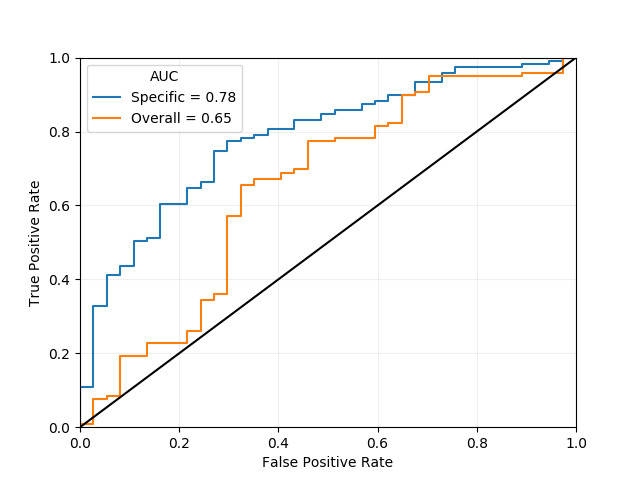
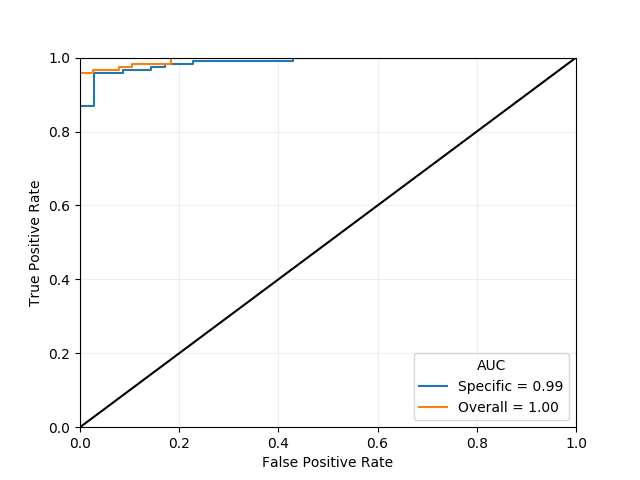
Fixed ROC/AUC

diff --git a/model.py b/model.py
@@ -7,7 +7,7 @@ def SoftClamp(x, n):
     return (torch.min(F.leaky_relu(x, 2/(n/slow+1)), torch.ones_like(x)) - torch.min(F.leaky_relu(1-x, 2/(n/slow+1)), torch.ones_like(x))+1)/2.0
 
 def SoftLeaky(x, n):
-	slow = 1000
+	slow = 10
 	return F.leaky_relu(x, 1/(n/slow+1))
 
 class Model(nn.Module):
@@ -22,7 +22,7 @@ class Model(nn.Module):
 
 		self.trunk = nn.Sequential(
 			nn.Linear(self.features, self.width), nn.ReLU(inplace=True), nn.BatchNorm1d(self.width), nn.Dropout(self.DO),
-			#nn.Linear(self.width, self.width), nn.ReLU(inplace=True), nn.BatchNorm1d(self.width), nn.Dropout(self.DO),
+			nn.Linear(self.width, self.width), nn.ReLU(inplace=True), nn.BatchNorm1d(self.width), nn.Dropout(self.DO),
 			nn.Linear(self.width, self.width), nn.ReLU(inplace=True), nn.BatchNorm1d(self.width), nn.Dropout(self.DO),
 			nn.Linear(self.width, self.width), nn.ReLU(inplace=True), nn.BatchNorm1d(self.width), nn.Dropout(self.DO))
 
@@ -30,13 +30,13 @@ class Model(nn.Module):
 
 		self.pred = nn.Sequential(
 			nn.Linear(2*self.width, self.width), nn.ReLU(inplace=True), nn.BatchNorm1d(self.width), nn.Dropout(self.DO),
-			#nn.Linear(self.width, self.width), nn.ReLU(inplace=True), nn.BatchNorm1d(self.width), nn.Dropout(self.DO),
+			nn.Linear(self.width, self.width), nn.ReLU(inplace=True), nn.BatchNorm1d(self.width), nn.Dropout(self.DO),
 			nn.Linear(self.width, self.width), nn.ReLU(inplace=True), nn.BatchNorm1d(self.width), nn.Dropout(self.DO),
 			nn.Linear(self.width, 1))
 
 		self.prob = nn.Sequential(
 			nn.Linear(2*self.width, self.width), nn.ReLU(inplace=True), nn.BatchNorm1d(self.width), nn.Dropout(self.DO),
-			#nn.Linear(self.width, self.width), nn.ReLU(inplace=True), nn.BatchNorm1d(self.width), nn.Dropout(self.DO),
+			nn.Linear(self.width, self.width), nn.ReLU(inplace=True), nn.BatchNorm1d(self.width), nn.Dropout(self.DO),
 			nn.Linear(self.width, self.width), nn.ReLU(inplace=True), nn.BatchNorm1d(self.width), nn.Dropout(self.DO),
 			nn.Linear(self.width, 1))
 

diff --git a/utils.py b/utils.py
@@ -25,7 +25,9 @@ def train_and_test_set(data, labels, groups, i, k):
 
 def Loss(pred, strain, prob, ptrain, stest, ptest, model, xtest, epoch):
 
-	mse  = F.mse_loss(pred, strain)/1000
+	mse_scale = 1e5
+
+	mse  = F.mse_loss(pred, strain)/mse_scale
 	bce  = F.binary_cross_entropy(prob, ptrain)
 
 	loss  = mse + bce
@@ -37,7 +39,7 @@ def Loss(pred, strain, prob, ptrain, stest, ptest, model, xtest, epoch):
 		tprob, tpred = model(xtest)
 		model.train() #This turns BatchNorm and Dropout back on
 
-		tmse = F.mse_loss(tpred, stest)/1000
+		tmse = F.mse_loss(tpred, stest)/mse_scale
 		tbce = F.binary_cross_entropy(tprob, ptest)
 		
 		tloss = tmse + tbce
@@ -60,7 +62,14 @@ def AUC(ytrain, ytest, prob, tprob):
 	return AUCtrain, AUCtest
 
 
-def AUCplot(yspec, yover, probspec, probover, k):
+def AUCplot(spec_model, over_model, spec_xtest, over_xtest, yspec, yover, k):
+
+	spec_model.eval() # This turns off BatchNorm and Dropout, as will be done at deployment
+	over_model.eval() # This turns off BatchNorm and Dropout, as will be done at deployment
+	probspec, _ = spec_model(spec_xtest)
+	probover, _ = over_model(over_xtest)
+	spec_model.train() #This turns BatchNorm and Dropout back on
+	over_model.train() #This turns BatchNorm and Dropout back on
 
 	fpr_spec, tpr_spec, thresholds_spec = roc_curve(yspec.data.numpy(), probspec.data.numpy())
 	fpr_over, tpr_over, thresholds_over = roc_curve(yover.data.numpy(), probover.data.numpy())

diff --git a/train.py b/train.py
@@ -7,8 +7,8 @@ from utils import *
 
 # Training Parameters
 k = 10				# Groups for k-fold validation
-width = 512			# Width of model
-epochs = 1000		# Training epochs for each fold
+width = 1024		# Width of model
+epochs = 300		# Training epochs for each fold
 
 
 # Loading preprocessed data and splitting
@@ -65,7 +65,7 @@ for i in range(k):
 		over_optim.zero_grad()
 
 
-	AUCplot(spec_ptrain, over_ptrain, spec_prob, over_prob, i)
+	AUCplot(spec_model, over_model, spec_xtest, over_xtest, spec_ptest, over_ptest, k)
 
 
 
